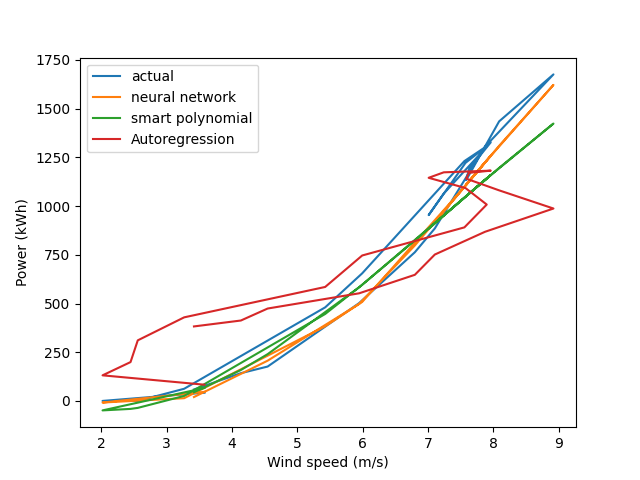
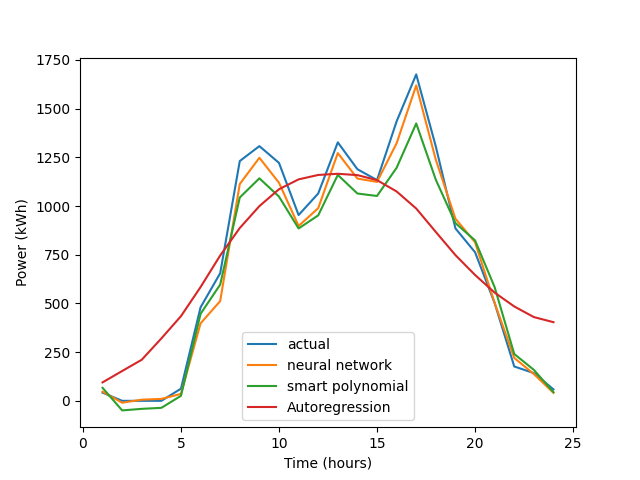
+ Made the comparison plot a TIME SERIES + Plotted monthly data

diff --git a/comparison.py b/comparison.py
@@ -7,6 +7,7 @@ import matplotlib.pyplot as plt
 from polynomial_regression import polynomial_prediction, polynomial_prediction_smarter
 from neural_network import neural_network, bivariate_neural_network
 from arima import model_fit
+from statistics import mean
 
 def max(x: list) -> float:
     max = 0
@@ -23,8 +24,10 @@ def min(x: list) -> float:
     return min
 
 data = pd.read_csv("Cleaned_data.csv")
+data.rename(columns={"Unnamed: 0": "Timestamp", "AmbientTemperatue": "AmbientTemperature"}, inplace=True)
+print(data.head())
 x = np.array(data['WindSpeed'].tolist())
-x_bv = np.column_stack((data['WindSpeed'].values, data['AmbientTemperatue'].values))
+x_bv = np.column_stack((data['WindSpeed'].values, data['AmbientTemperature'].values))
 y = np.array(data['ActivePower'].tolist())
 print(len(x), len(y))
 X_bv_train, X_bv_test = train_test_split(x_bv, test_size=0.20, random_state=101)
@@ -52,16 +55,18 @@ print("RMSE of bivariate NN: ", rmse_bivariate_nn)
 #Last 24 hours
 y_24 = y[len(y)-24:len(y)]
 x_24 = x[len(y)-24:len(x)]
+hours_24 = [x for x in range(1, 25)]
+print(len(hours_24))
 print("Length of x24 and y24: ", len(x_24), len(y_24))
 rmse_24_dumb_polynomial = sqrt(mean_squared_error(y_24, polynomial_prediction(x_24)))
 rmse_24_smart_polynomial = sqrt(mean_squared_error(y_24, polynomial_prediction_smarter(x_24)))
 rmse_24_nn = sqrt(mean_squared_error(y_24, neural_network.predict(x_24.reshape(-1, 1))))
 rmse_24_ar = sqrt(mean_squared_error(y_24, model_fit.predict(start=len(y)-24, end=len(y)-1)))
-plt.plot(x_24, y_24, label="actual")
-plt.plot(x_24, neural_network.predict(x_24.reshape(-1, 1)), label="neural network")
-plt.plot(x_24, polynomial_prediction_smarter(x_24), label="smart polynomial")
-plt.plot(x_24, model_fit.predict(start=len(y)-24, end=len(y)-1), label="Autoregression")
-plt.xlabel("Wind speed (m/s)")
+plt.plot(hours_24, y_24, label="actual")
+plt.plot(hours_24, neural_network.predict(x_24.reshape(-1, 1)), label="neural network")
+plt.plot(hours_24, polynomial_prediction_smarter(x_24), label="smart polynomial")
+plt.plot(hours_24, model_fit.predict(start=len(y)-24, end=len(y)-1), label="Autoregression")
+plt.xlabel("Time (hours)")
 plt.ylabel("Power (kWh)")
 plt.legend()
 plt.show()
@@ -69,3 +74,4 @@ print("RMSEs: \n", "Dumb polynomial: ", rmse_24_dumb_polynomial, "\n",
       "Smart polynomial: ", rmse_24_smart_polynomial, "\n",
       "NN: ", rmse_24_nn, "\n",
       "AR: ", rmse_24_ar)
+print("Mean power production: ", mean(y_24))

diff --git a/plots.py b/plots.py
@@ -70,10 +70,13 @@ subset = subset.set_index(datetime_index)
 #Drop redundant column
 subset = subset.drop(['Unnamed: 0'], axis=1)
 print(subset.shape)
-#Resampling to hoursand taking the average of each hour
+
+
 
 # Autoregression plots
 windspeeds_months = subset['WindSpeed'].resample('M').mean()
+windspeeds_months.plot(style='k', title="Monthly power production")
+plt.show()
 print(windspeeds_months.shape)
 windspeeds_months = windspeeds_months.to_numpy()
 plot_acf(windspeeds_months, lags=12)
